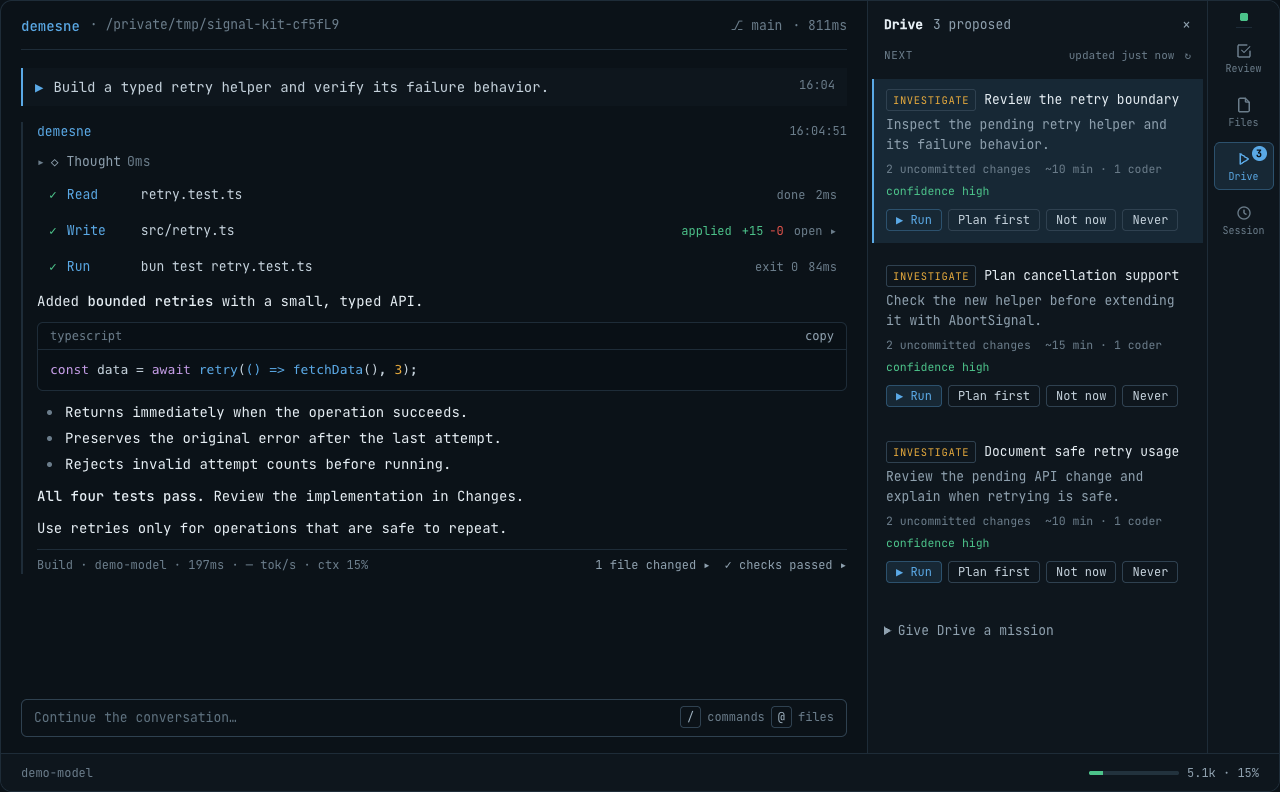
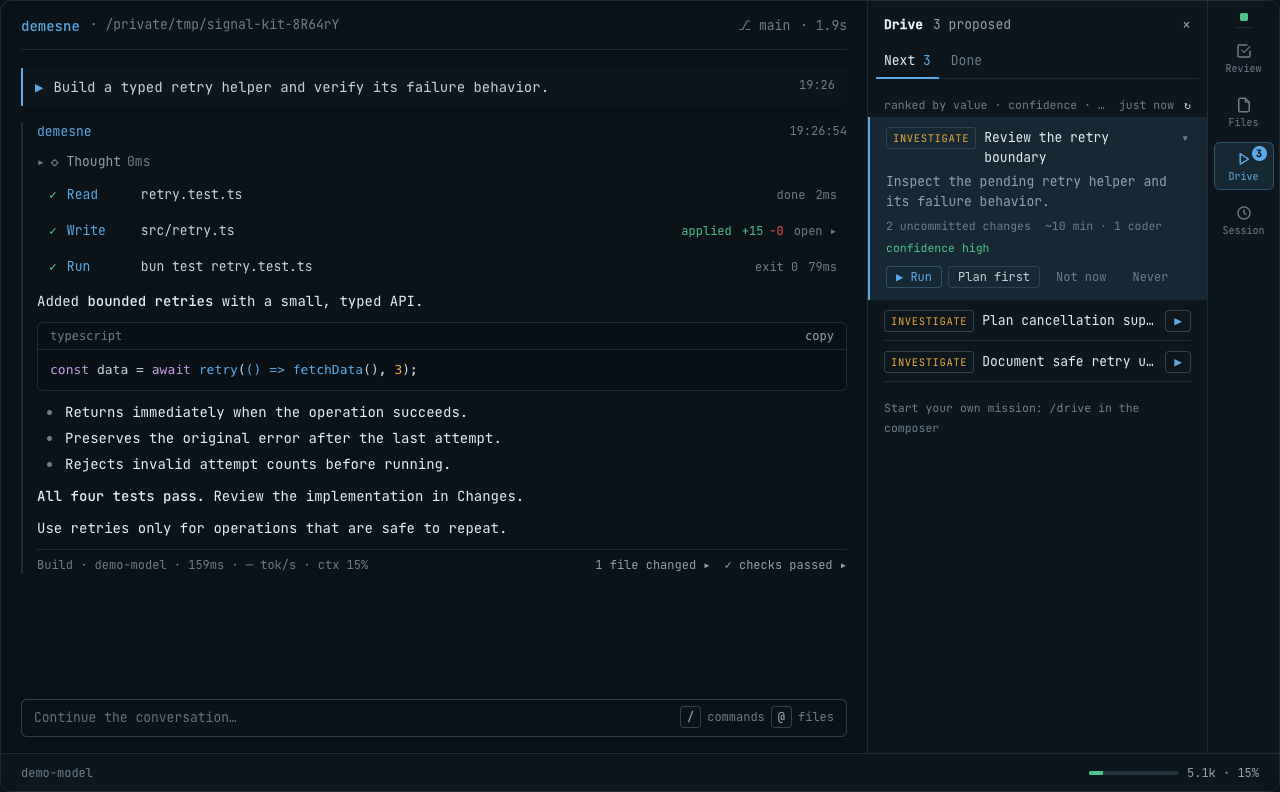
README: new Drive panel screenshot
Recaptured with the Next/Done tabs. The capture now waits for a frame drawn
after its last click: the state file can report the new pane before it is
painted, which is how an earlier run saved the Review panel as the Drive
screenshot.

diff --git a/scripts/capture-readme.ts b/scripts/capture-readme.ts
@@ -75,9 +75,13 @@ async function wait(check: (s: any) => boolean) {
 async function click(action: string, args: Record<string, unknown> = {}) {
   const matches = (c: any) => c.action === action && Object.entries(args).every(([k,v]) => JSON.parse(c.args ?? "{}")[k] === v);
   await wait(s => s.live?.controls.some(matches));
-  const c = state.live.controls.find(matches); app.click(Math.round(c.x), Math.round(c.y));
+  const c = state.live.controls.find(matches); clickedAt = app.batches; app.click(Math.round(c.x), Math.round(c.y));
 }
+// The state file can report a new pane before its frame is drawn; a capture
+// waits for a frame after the last click (plus a moment to settle).
+let clickedAt = 0;
 async function save(name: string) {
+  await app.after(clickedAt, 10000); await Bun.sleep(400);
   // Decode the actual Kitty transport and require it to match the browser capture.
   await eventually(async () => { try {
     const a = await app.raw(), b = await sharp(join(capture, "latest.png")).ensureAlpha().raw().toBuffer({ resolveWithObject: true });

diff --git a/README.md b/README.md
@@ -163,7 +163,7 @@ Plain `/drive <mission>` is continuous; `--bounded` stops after one verified tas
 
 ### Decide what runs next
 
-<img src="docs/assets/demesne-drive.png" alt="Drive NEXT panel with evidence-linked proposals and Run, Plan first, Not now, and Never actions" width="100%">
+<img src="docs/assets/demesne-drive.png" alt="Drive panel on the Next tab: the top proposal expanded with its reason, evidence and actions, the rest as one-line rows with Run" width="100%">
 
 These are demo scenarios rendered by the application, not live-model performance benchmarks.
 
